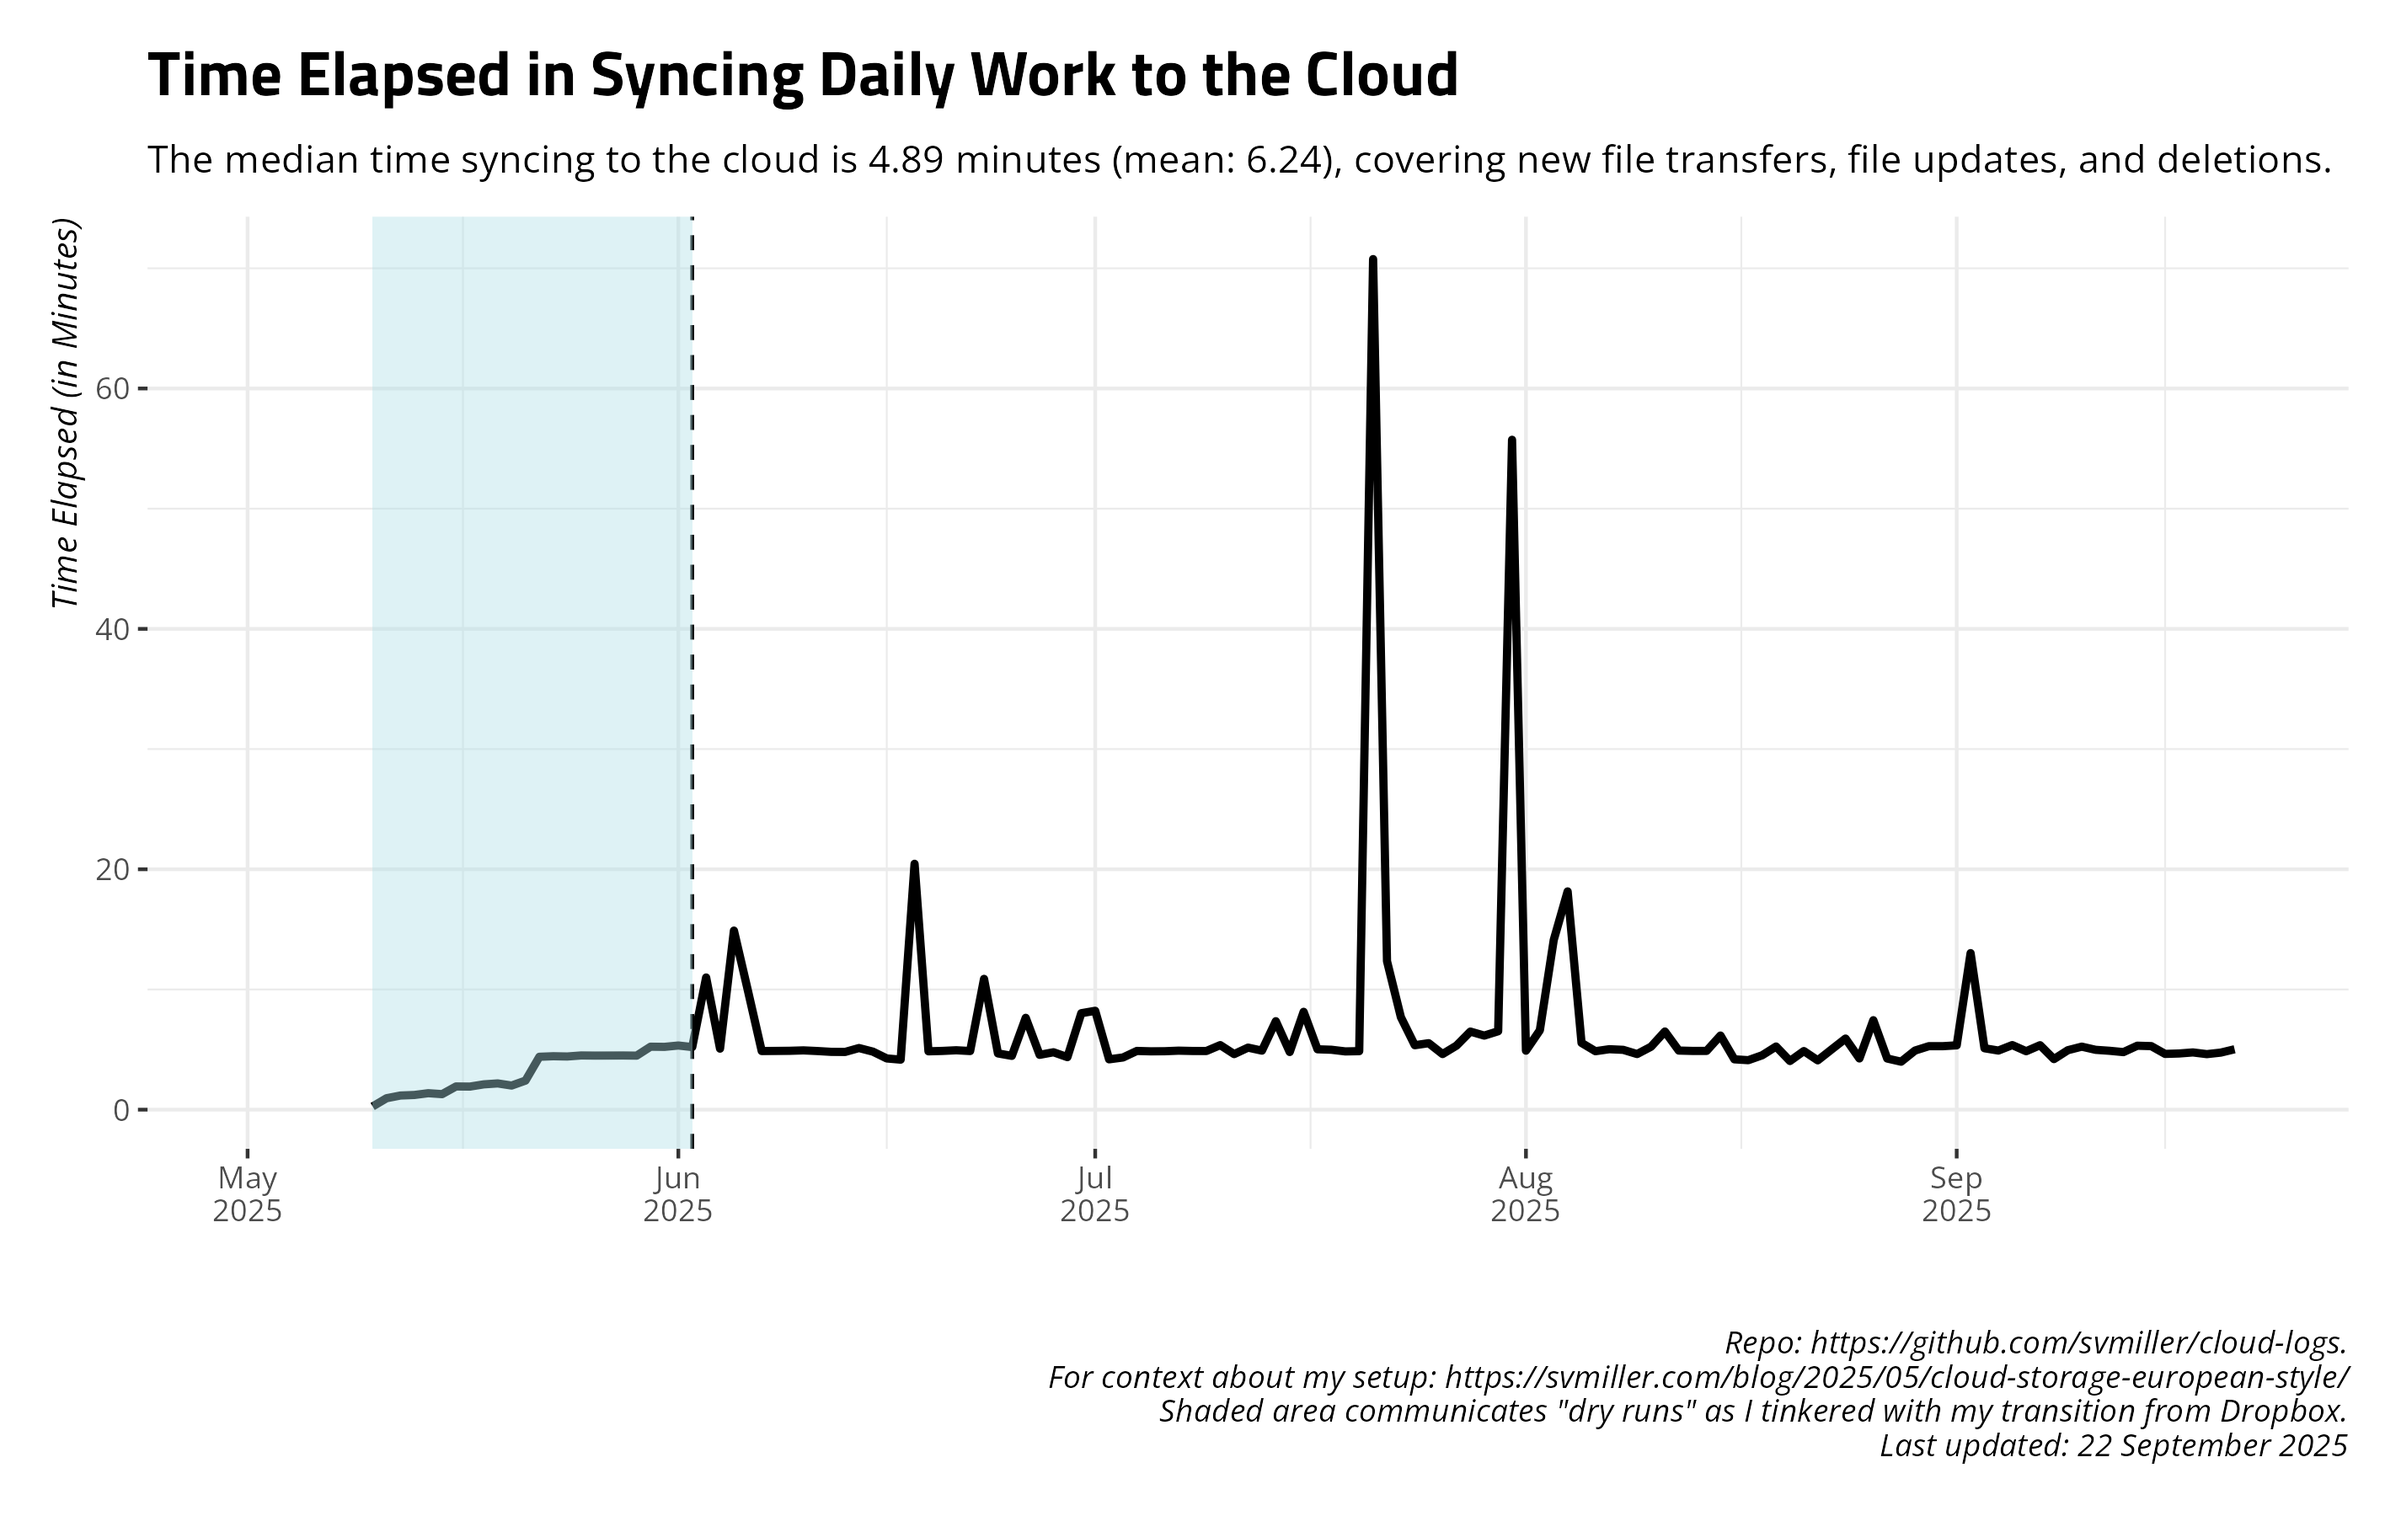
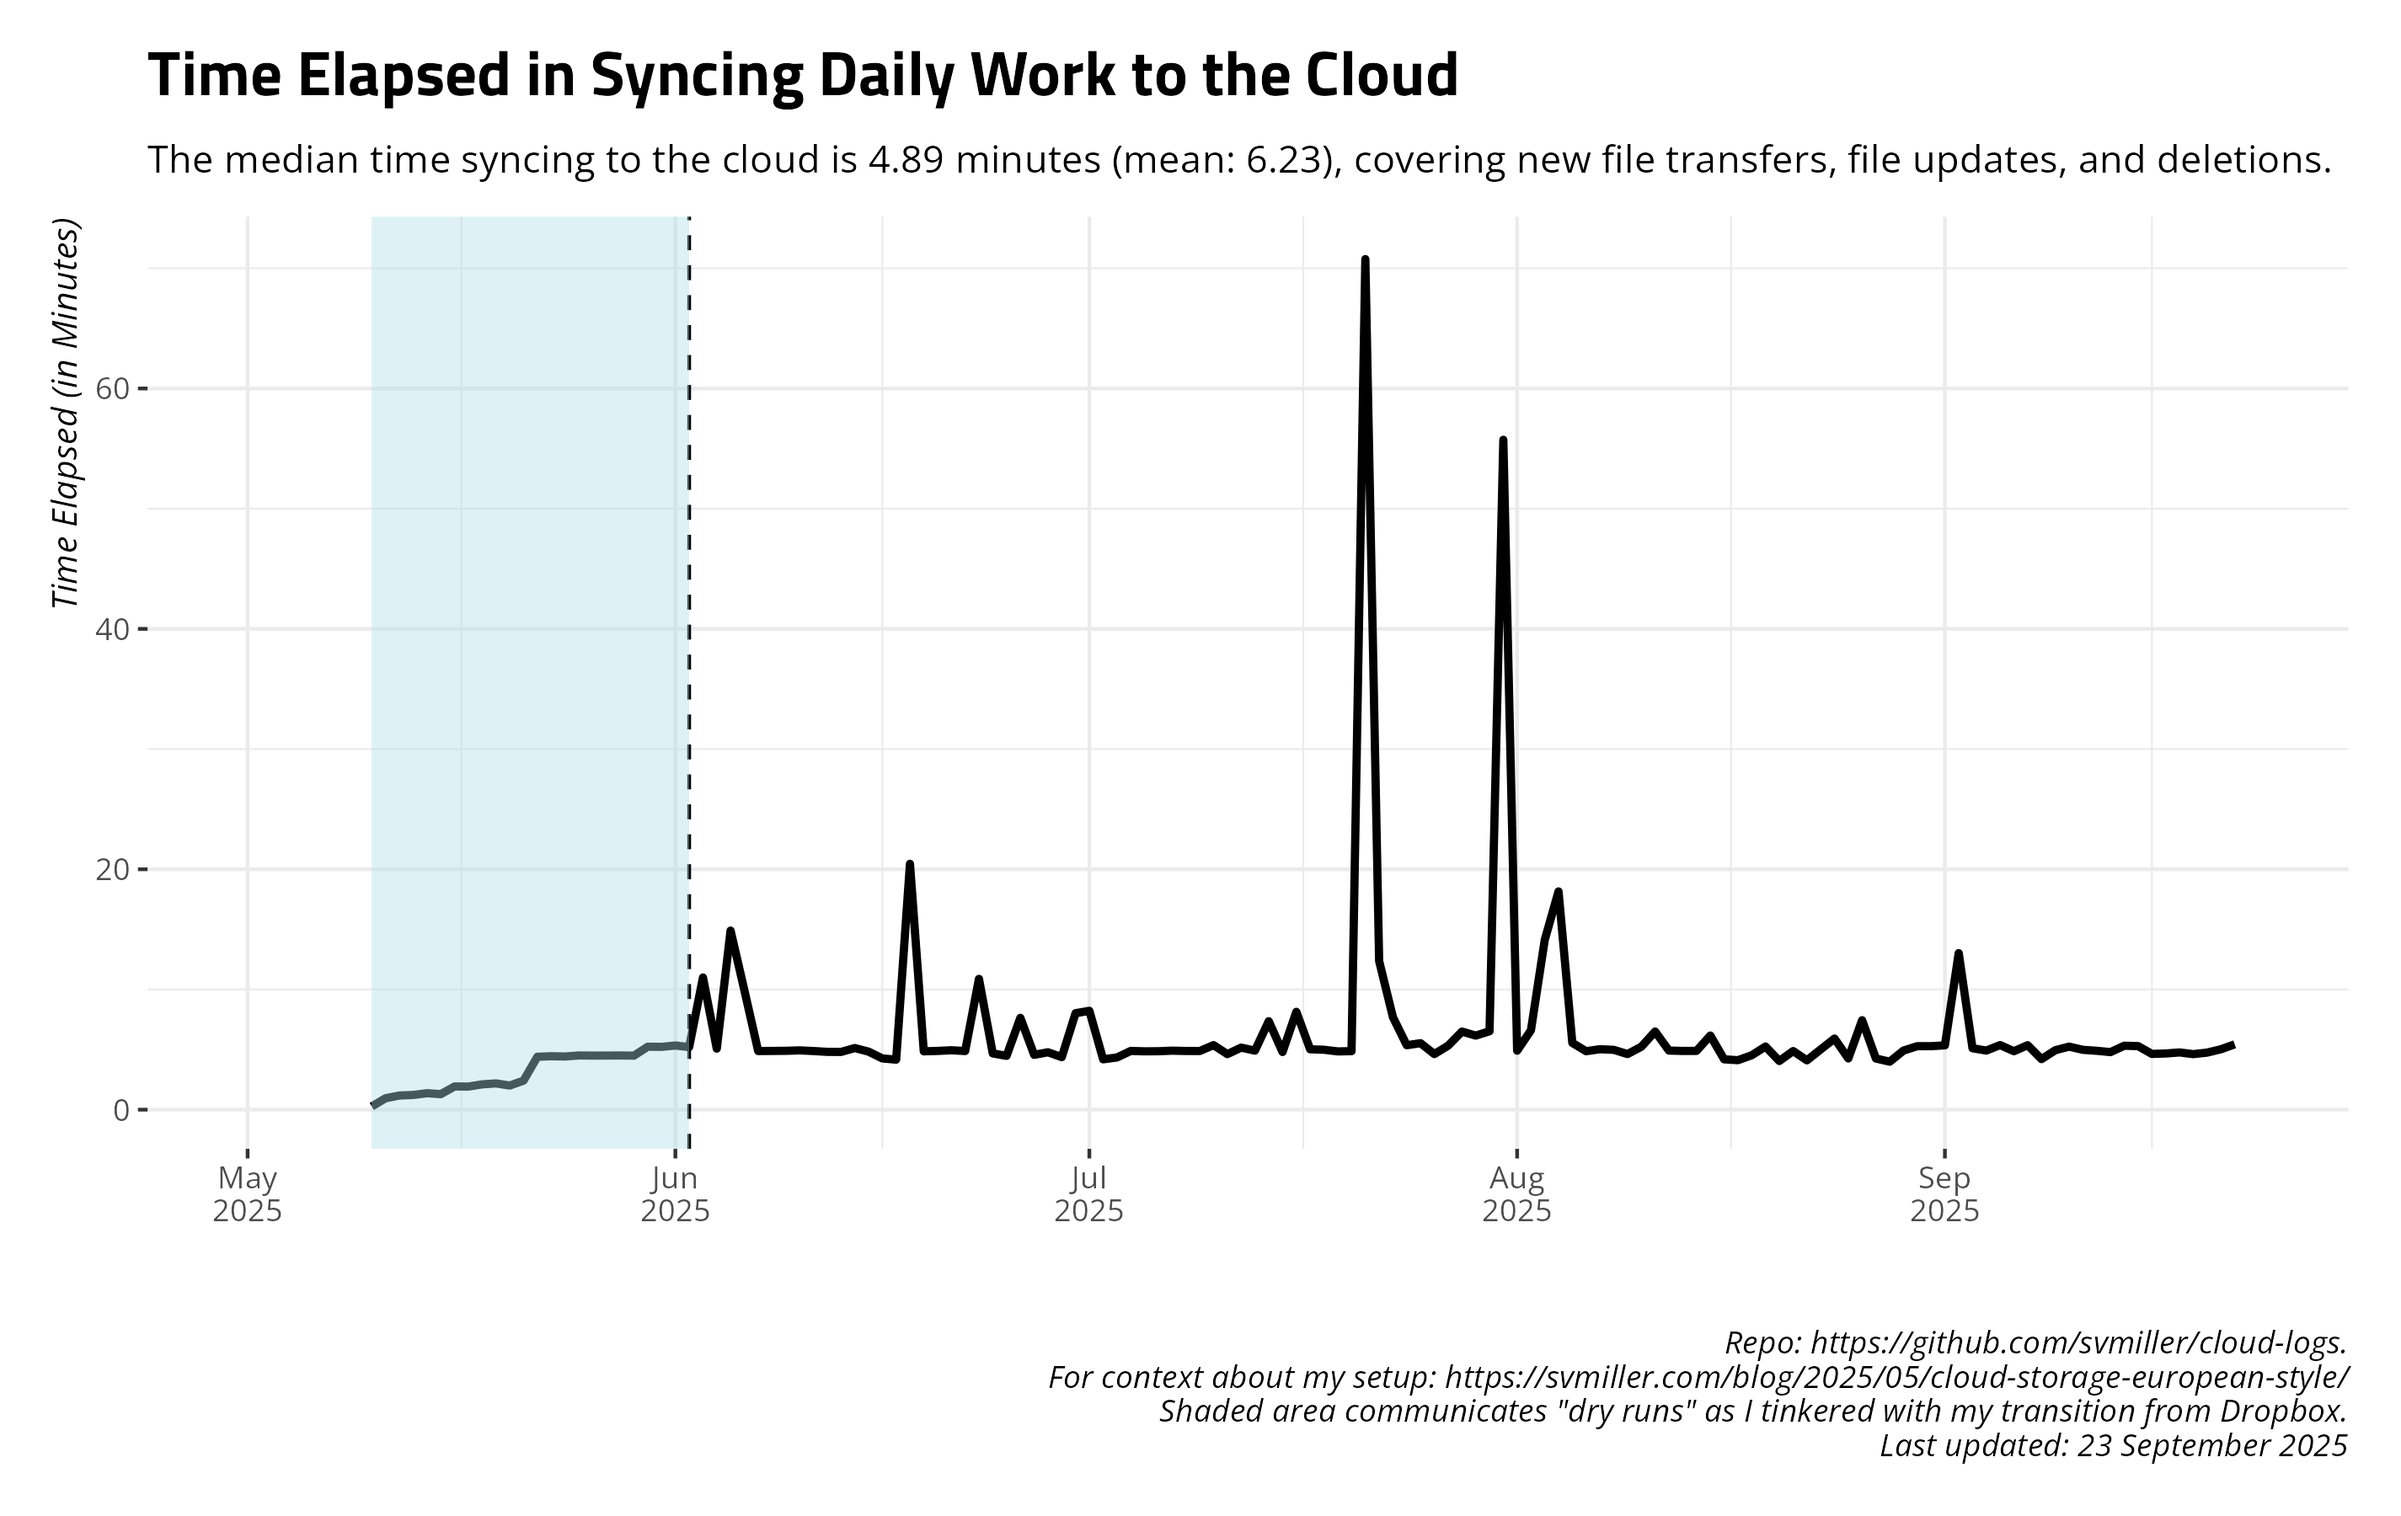
Date: 2025-09-23 09:00:14. Hi mom!

diff --git a/README.md b/README.md
@@ -27,17 +27,17 @@ and uploads to Github.
     #> # A tibble: 14 × 4
     #>    date       ftransfer stransfer   elapsed
     #>    <date>         <dbl> <chr>       <chr>  
-    #>  1 2025-09-08       119 1.400 MiB   4m12.4s
-    #>  2 2025-09-09        90 2.081 MiB   4m56.8s
-    #>  3 2025-09-10       224 188.623 MiB 5m14.5s
-    #>  4 2025-09-11       102 1.420 MiB   4m58.7s
-    #>  5 2025-09-12        40 513.224 KiB 4m53.9s
-    #>  6 2025-09-13        20 351.011 KiB 4m47.3s
-    #>  7 2025-09-14        11 124.986 KiB 5m19.2s
-    #>  8 2025-09-15       233 116.284 MiB 5m17.2s
-    #>  9 2025-09-16       180 17.775 MiB  4m38.3s
-    #> 10 2025-09-17       384 10.375 MiB  4m40.4s
-    #> 11 2025-09-18       156 2.882 MiB   4m45.7s
-    #> 12 2025-09-19       145 121.392 MiB 4m37.2s
-    #> 13 2025-09-20        10 13.771 KiB  4m44.8s
-    #> 14 2025-09-21        27 314.652 KiB 5m1.5s
+    #>  1 2025-09-09        90 2.081 MiB   4m56.8s
+    #>  2 2025-09-10       224 188.623 MiB 5m14.5s
+    #>  3 2025-09-11       102 1.420 MiB   4m58.7s
+    #>  4 2025-09-12        40 513.224 KiB 4m53.9s
+    #>  5 2025-09-13        20 351.011 KiB 4m47.3s
+    #>  6 2025-09-14        11 124.986 KiB 5m19.2s
+    #>  7 2025-09-15       233 116.284 MiB 5m17.2s
+    #>  8 2025-09-16       180 17.775 MiB  4m38.3s
+    #>  9 2025-09-17       384 10.375 MiB  4m40.4s
+    #> 10 2025-09-18       156 2.882 MiB   4m45.7s
+    #> 11 2025-09-19       145 121.392 MiB 4m37.2s
+    #> 12 2025-09-20        10 13.771 KiB  4m44.8s
+    #> 13 2025-09-21        27 314.652 KiB 5m1.5s 
+    #> 14 2025-09-22         9 8.336 MiB   5m26.1s
